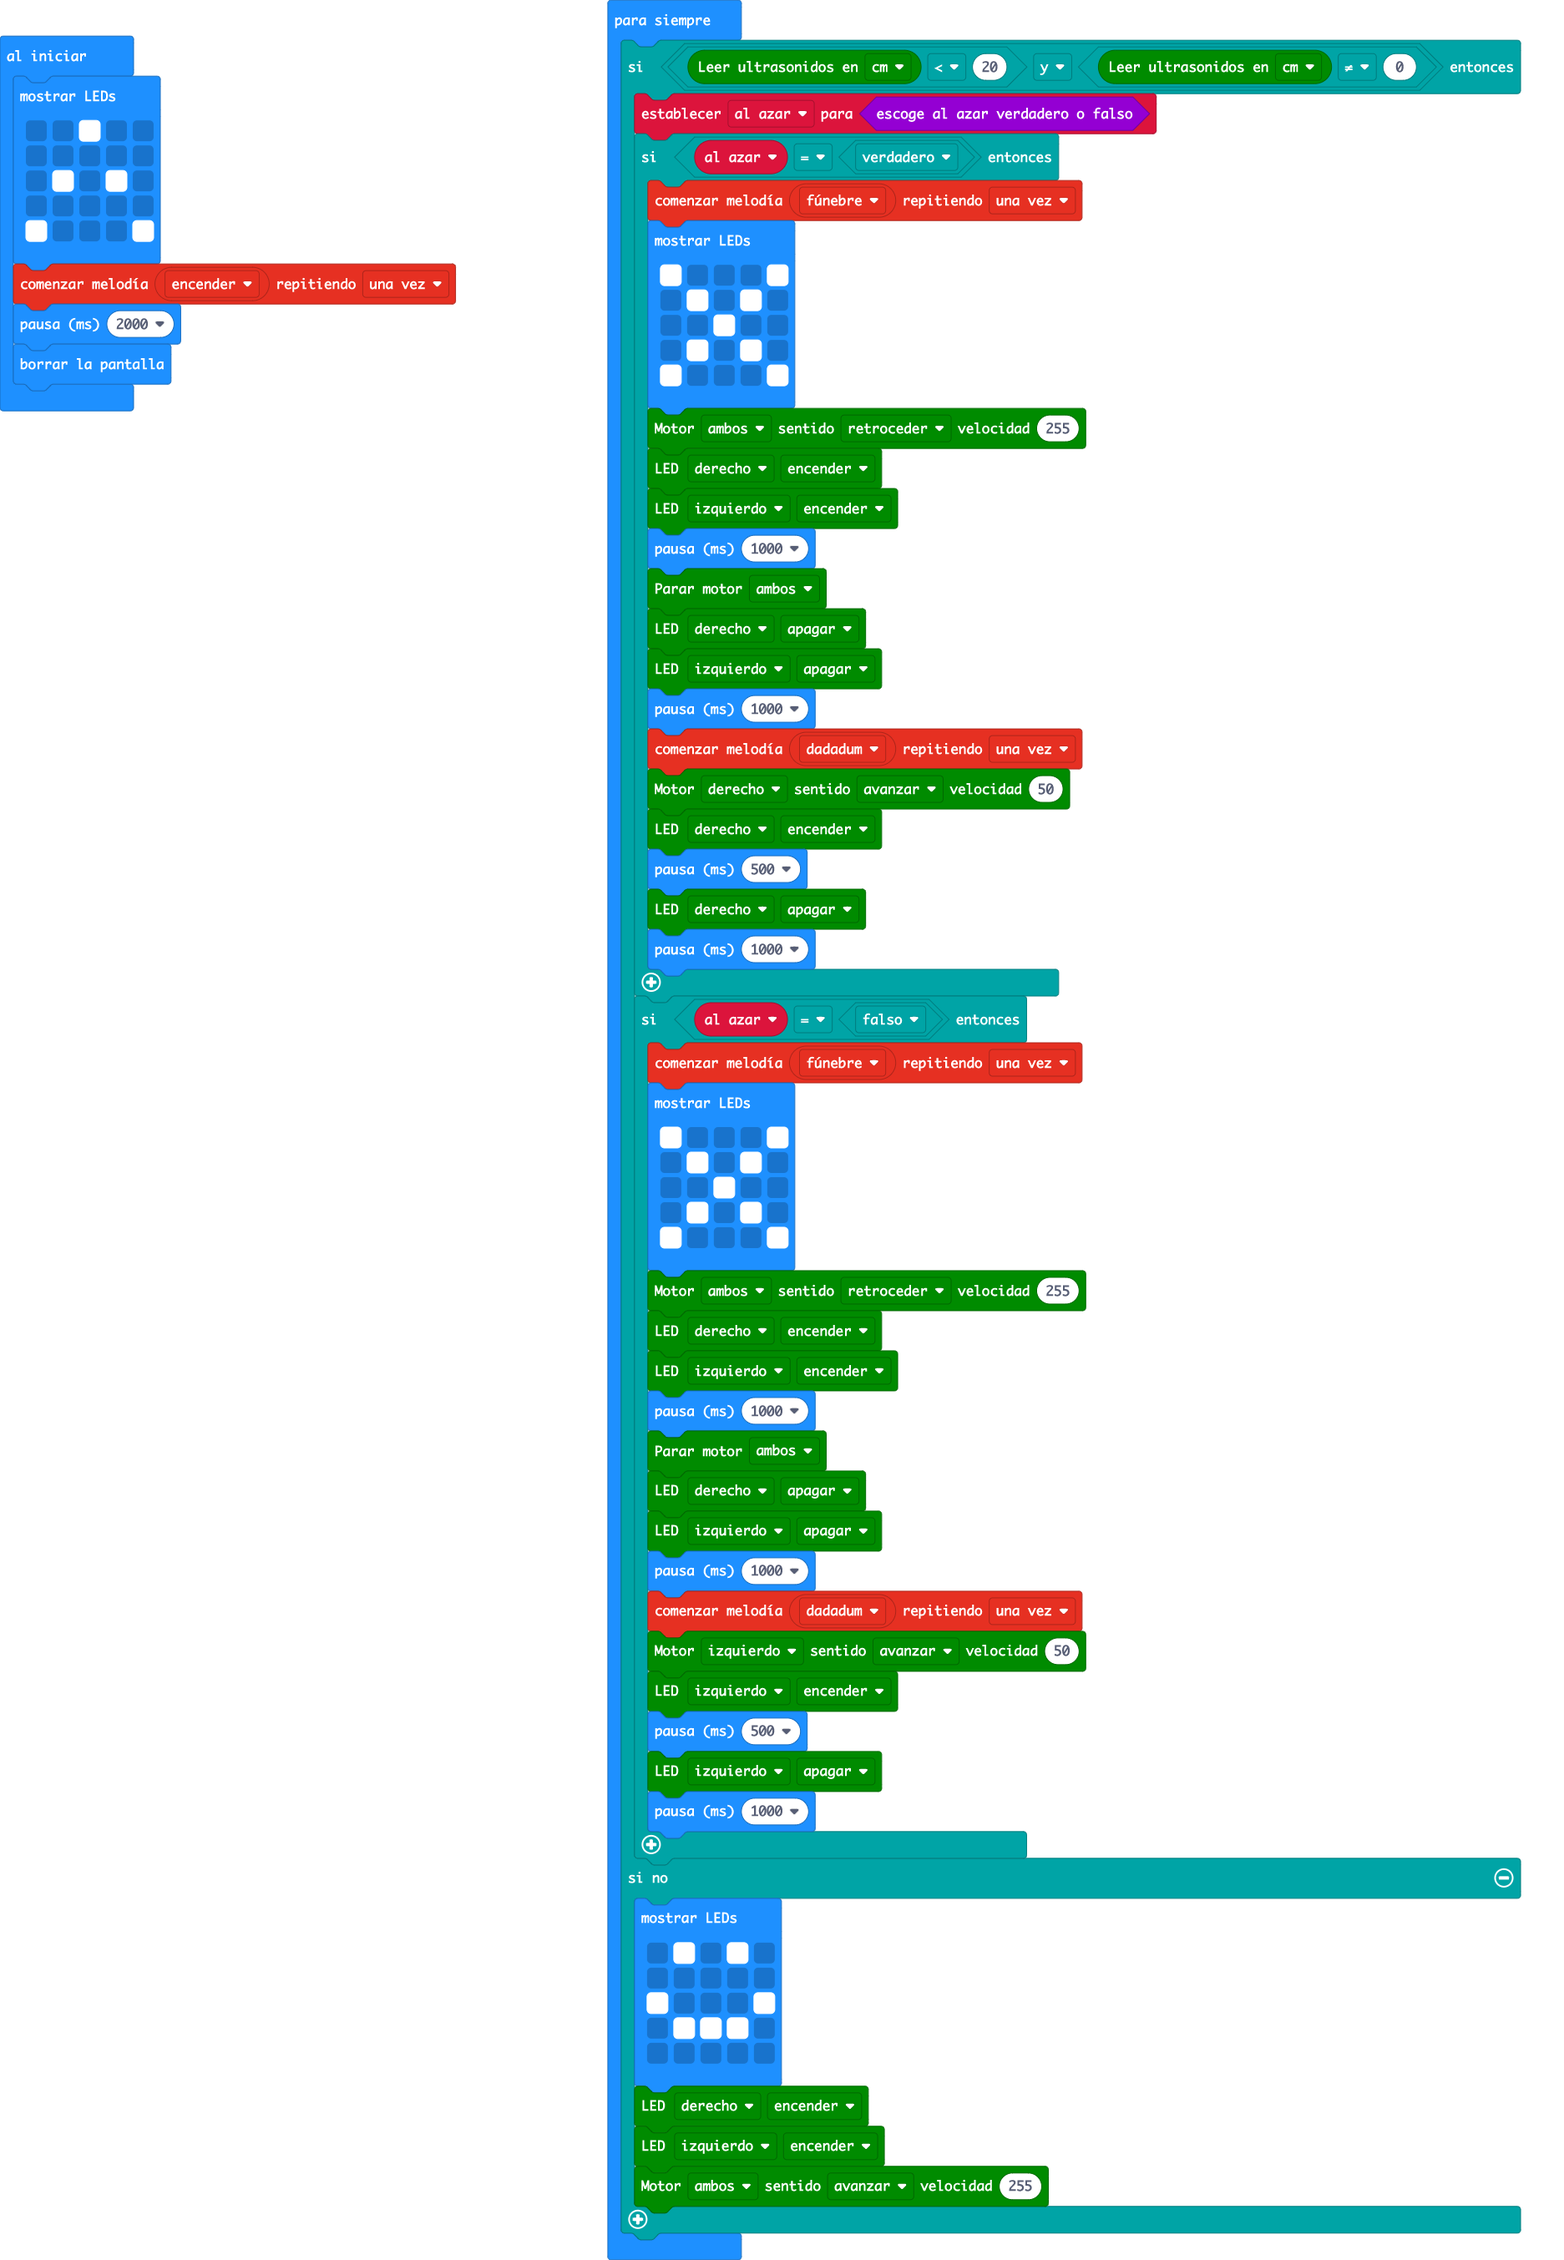
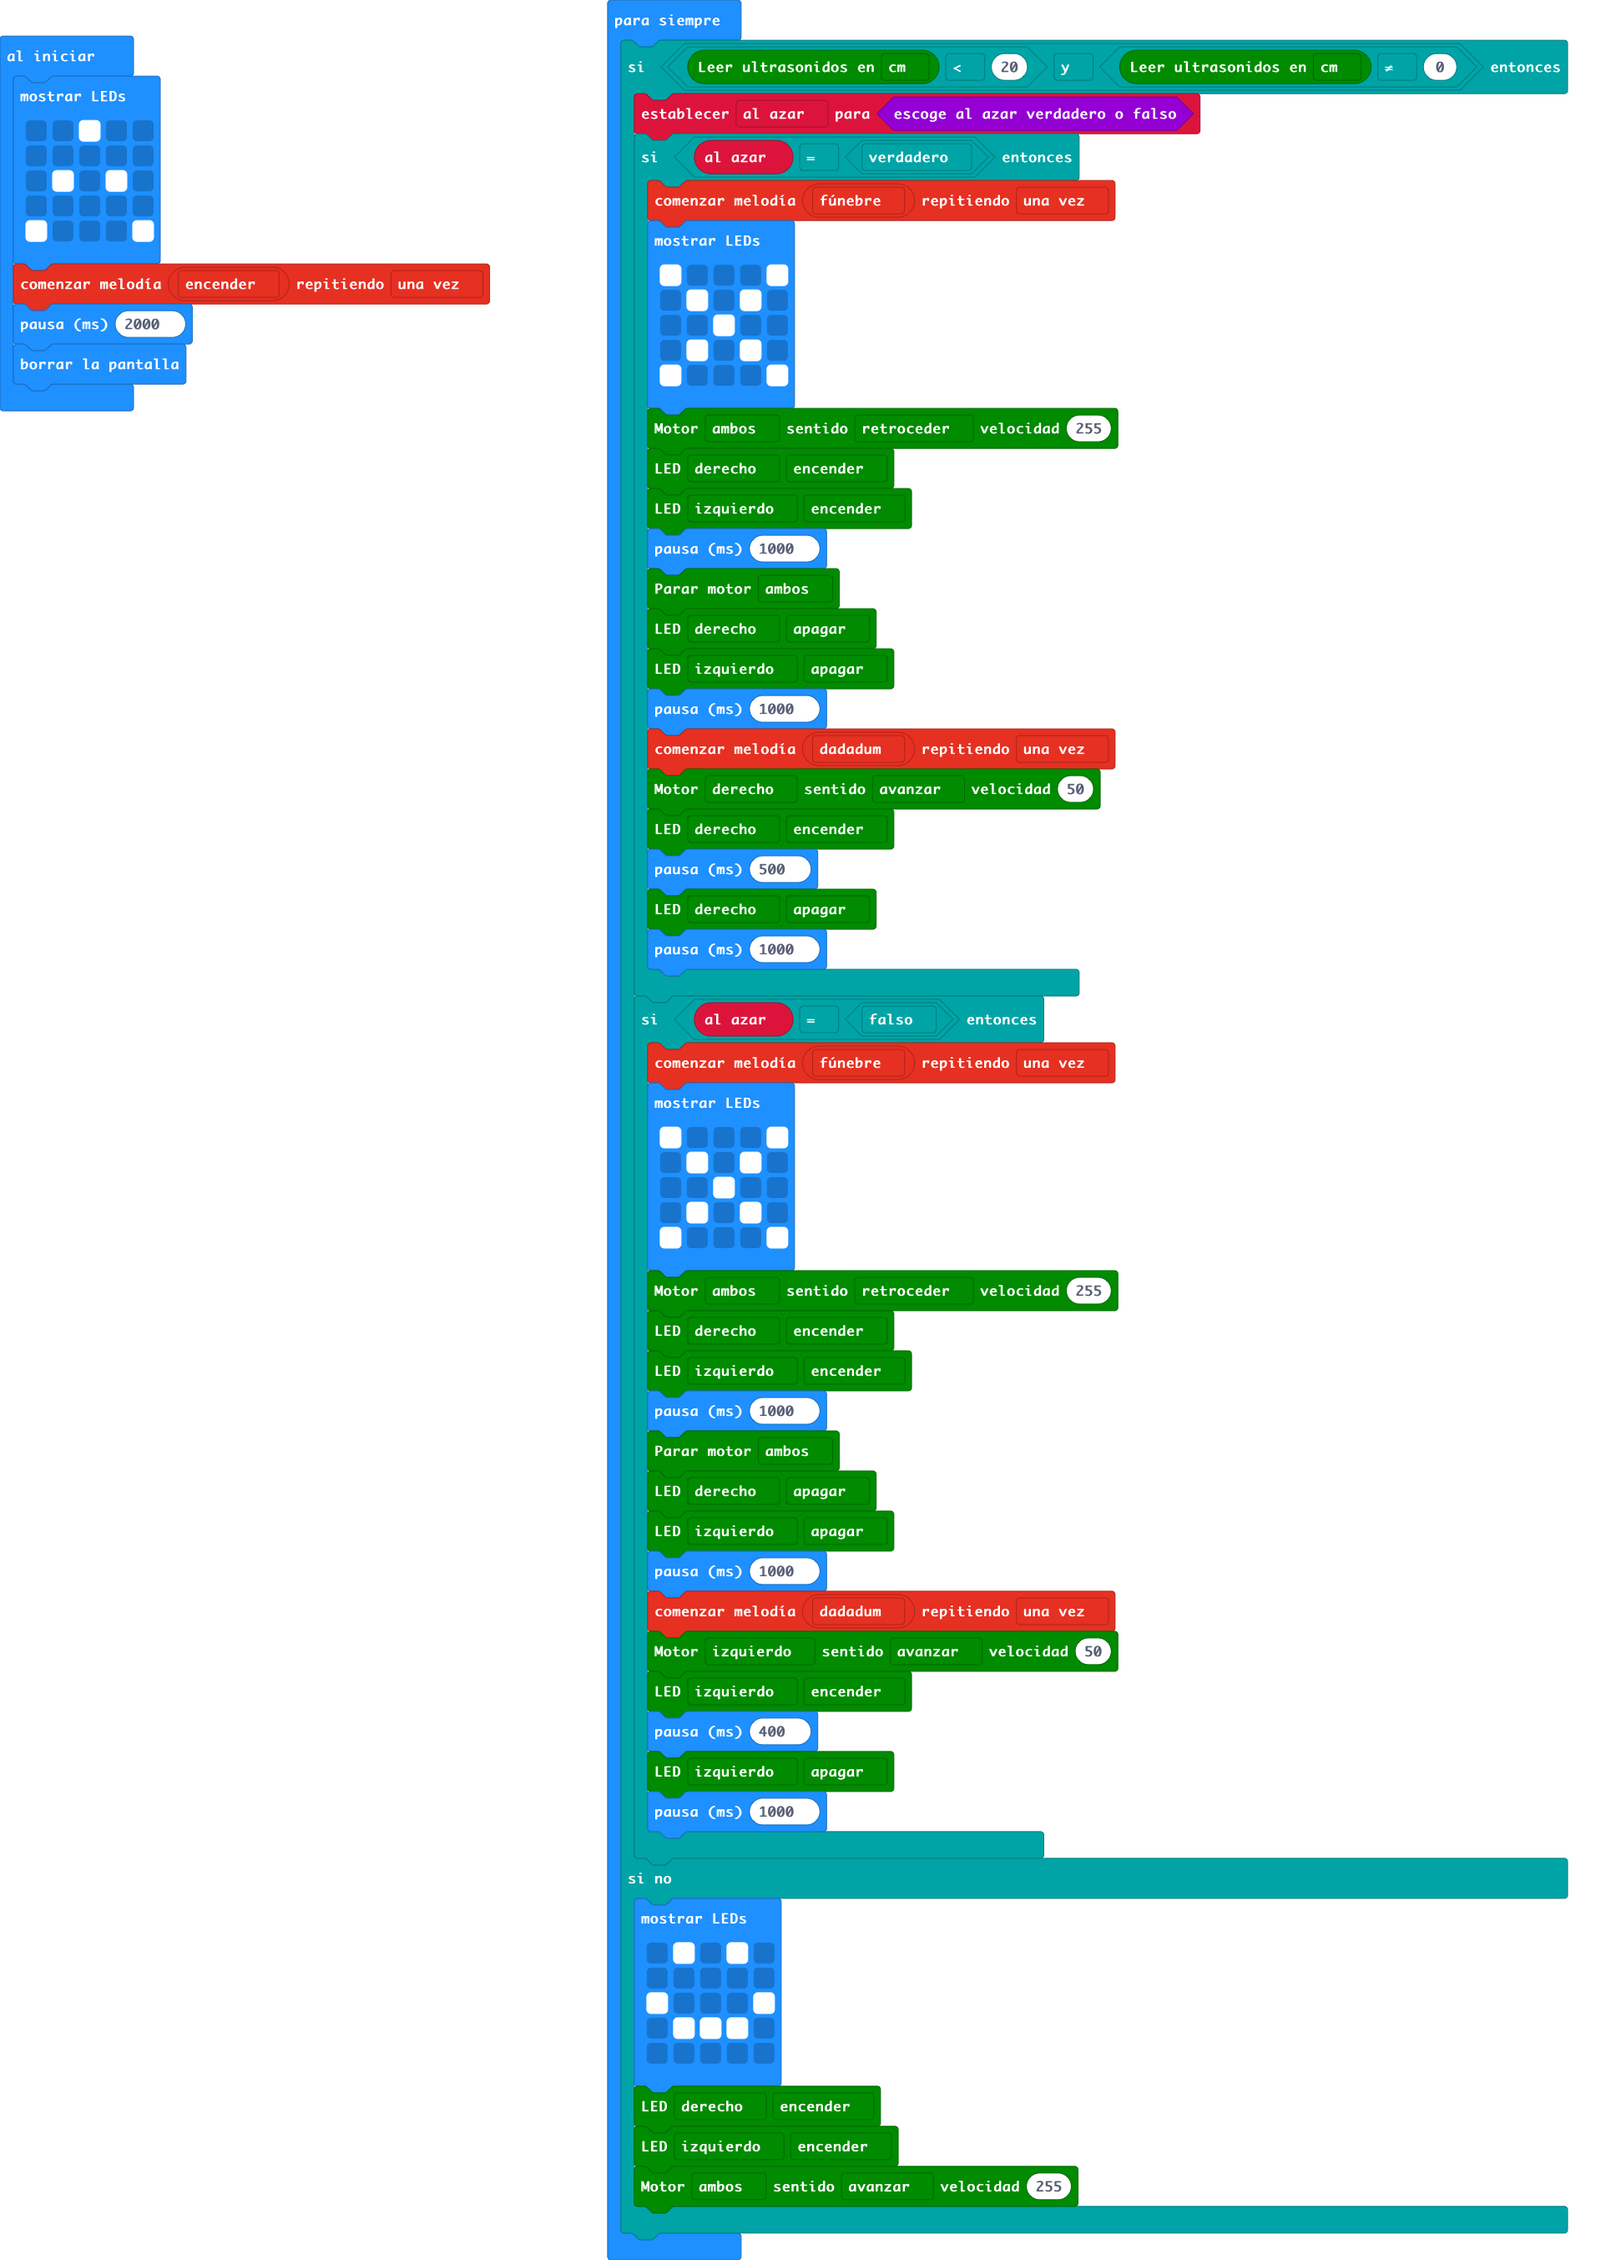
Actualizar main.blocks, main.ts

diff --git a/main.ts b/main.ts
@@ -56,7 +56,7 @@ basic.forever(function () {
             music.startMelody(music.builtInMelody(Melodies.Dadadadum), MelodyOptions.Once)
             maqueen.motorRun(maqueen.Motors.M1, maqueen.Dir.CW, 50)
             maqueen.writeLED(maqueen.LED.LEDRight, maqueen.LEDswitch.turnOn)
-            basic.pause(500)
+            basic.pause(400)
             maqueen.writeLED(maqueen.LED.LEDRight, maqueen.LEDswitch.turnOff)
             basic.pause(1000)
         }
